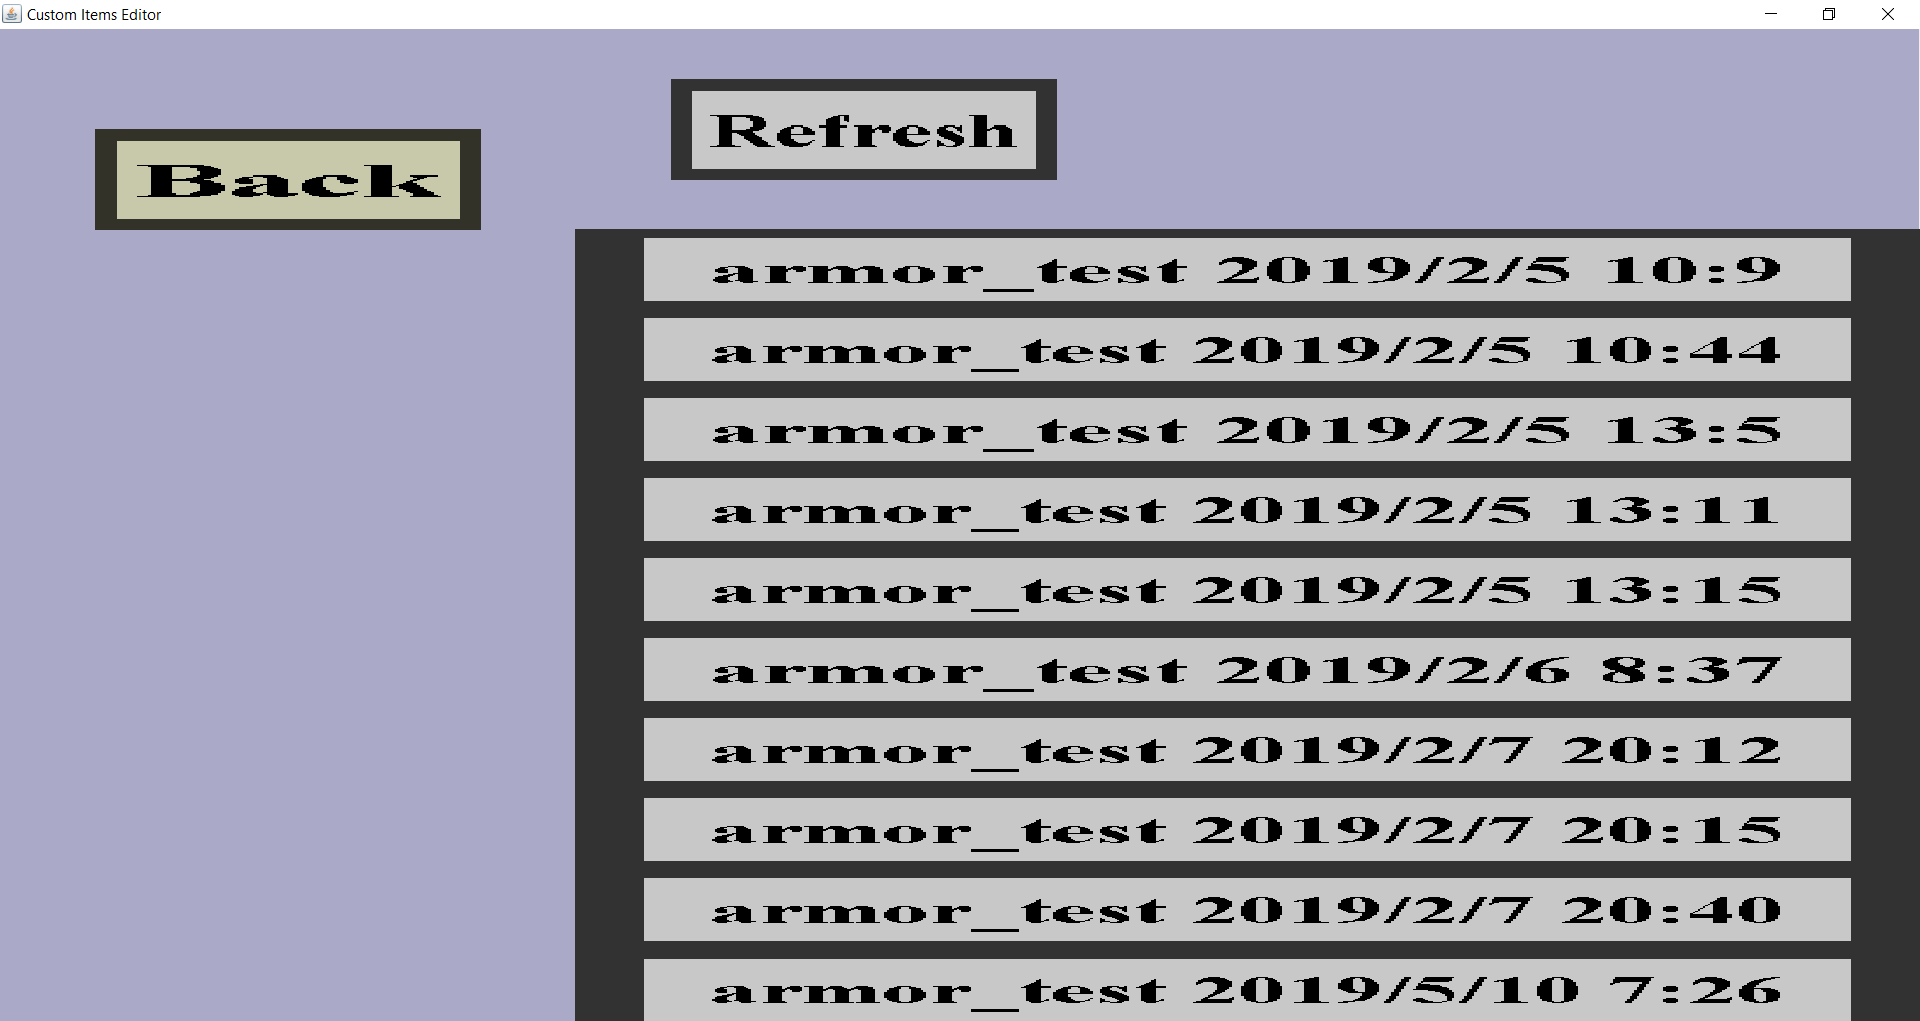
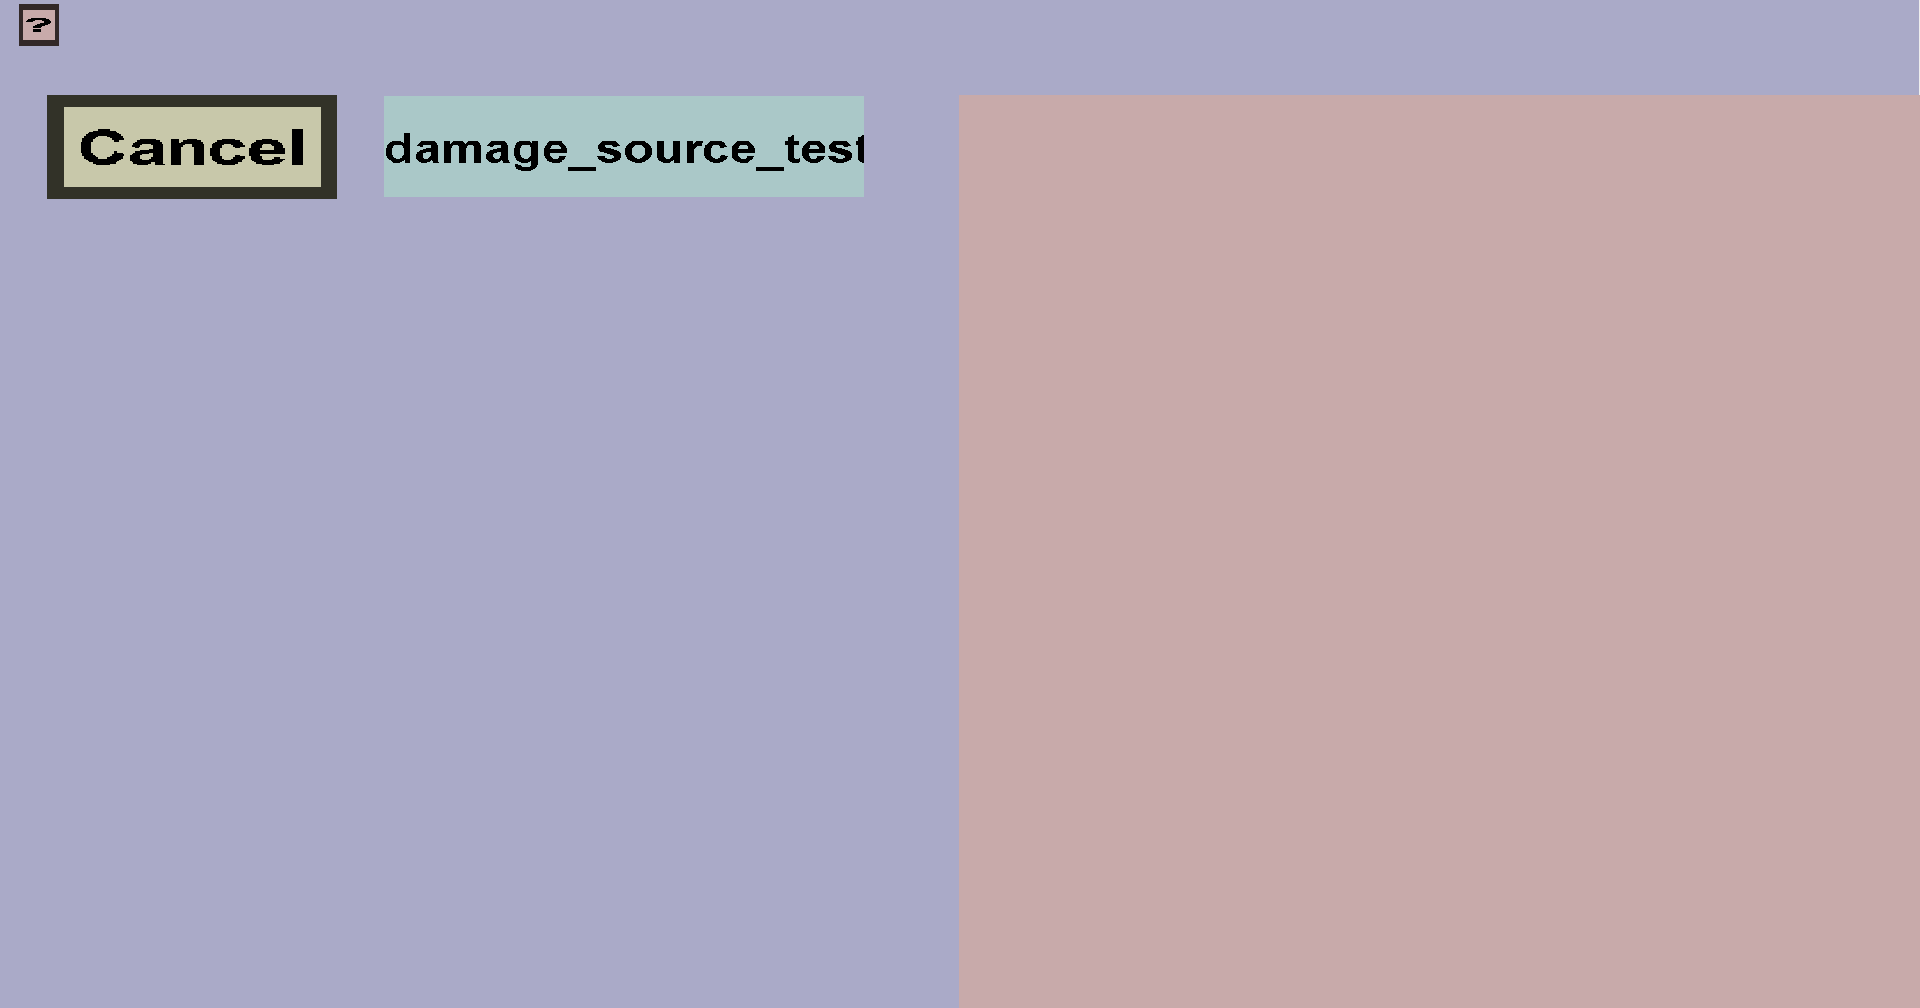
Document the improved back-up menu of KCI 12

diff --git a/custom items/editor documentation/main menu/edit/backup.html b/custom items/editor documentation/main menu/edit/backup.html
@@ -7,15 +7,34 @@
     <body>
         <p>
             In the back-up selection menu, you can load a back-up of an item set on your computer.
-            If you have quite some back-ups of an item set called 'armor_test', it could look like this:
+            If you have a single item set called <i>damage_source_test</i>, it should look like this:
         </p>
         <img src="backup.png" width="50%" />
         <p>
-            Whenever you save an item set with the editor, it will automatically create a back-up for the item set
-            you're saving as well. Currently, there is no bound on the number of back-ups that are made and they will
-            not be deleted automatically. If this starts taking too much disk space (shouldn't happen that soon), you
-            can go to YourDocumentsFolder/Custom Item Sets/backups and delete some back-up files (or just delete the entire backups folder).
+            When you click on the name of an item set, all of its back-ups should be shown on the right,
+            which should look like this:
         </p>
+        <img src="backup saves.png" width="50%" />
+        <p>
+            In the list on the right, you can see which back-ups of your item set are available. The timestamps
+            show when that particular back-up was made. By clicking the corresponding <b>Load</b> button, you
+            can load the corresponding back-up. When you load a back-up, you can make changes to your items
+            (just like when you edit an item set). If you <b>Save</b> or <b>Export</b>, the back-up version
+            will become your 'default' version.
+        </p>
+        <p>
+            Whenever you save an item set with the editor, it will automatically create a back-up for the item set
+            you're saving as well. Old back-ups will automatically be removed after some time. More precisely:
+        </p>
+        <ul>
+            <li>Back-ups less than 24 hours old will not be deleted</li>
+            <li>
+                When back-ups are between 1 and 30 days old, only the most recent back-up of each day will be kept.
+            </li>
+            <li>
+                When back-ups are older than 30 days, only the most recent back-up of each week will be kept.
+            </li>
+        </ul>
         <p>
             The back-up system has 2 purposes:
             <ul>
@@ -24,23 +43,10 @@
             </ul>
             I must admit that the latter case was my primary motivation for adding this back-up system.
         </p>
-        <p>
-            This menu has 2 basic buttons 'Refresh' and 'Back' as well as a button for every back-up that has been made.
-            Note that you can 'scroll' with the up/down array key and the mouse wheel, which you will need when you have
-            a lot of back-ups.
-            The 'Back' button will bring you back to the <a href="selection.html">item set selection menu</a> and the 'Refresh'
-            button will refresh the list of back-ups.
-            
-        </p>
-        <p>
-            Each back-up button consists of an item set and the time at which the back-up was made.
-            Clicking on any of the back-up buttons will bring you to the <a href="../../edit menu/index.html">item set edit menu</a>
-            for the chosen item set at the time the chosen back-up was made. 
-            Then, you can make changes to the item set if you would like to.
-            If you quit without clicking on the Save button or any Export button, loading the back-up won't have any effect.<br>
-            If you do Save or Export the (possibly modified) back-up, it will become the new 'latest' version of the item set,
-            so whenever you open the Editor, click 'Edit item set' and then click the item set, you will load that back-up instead
-            of the 'original latest' version.
-        </p>
+        <b>
+            Note: all these automatic back-ups are stored on YOUR computer, so they won't help you if your entire
+            disk gets corrupted. If you want to protect your content from being lost when your disk is damaged, you
+            should copy your .cis<i>b</i> file to some service like Onedrive or Dropbox.
+        </b>
     </body>
 </html>
